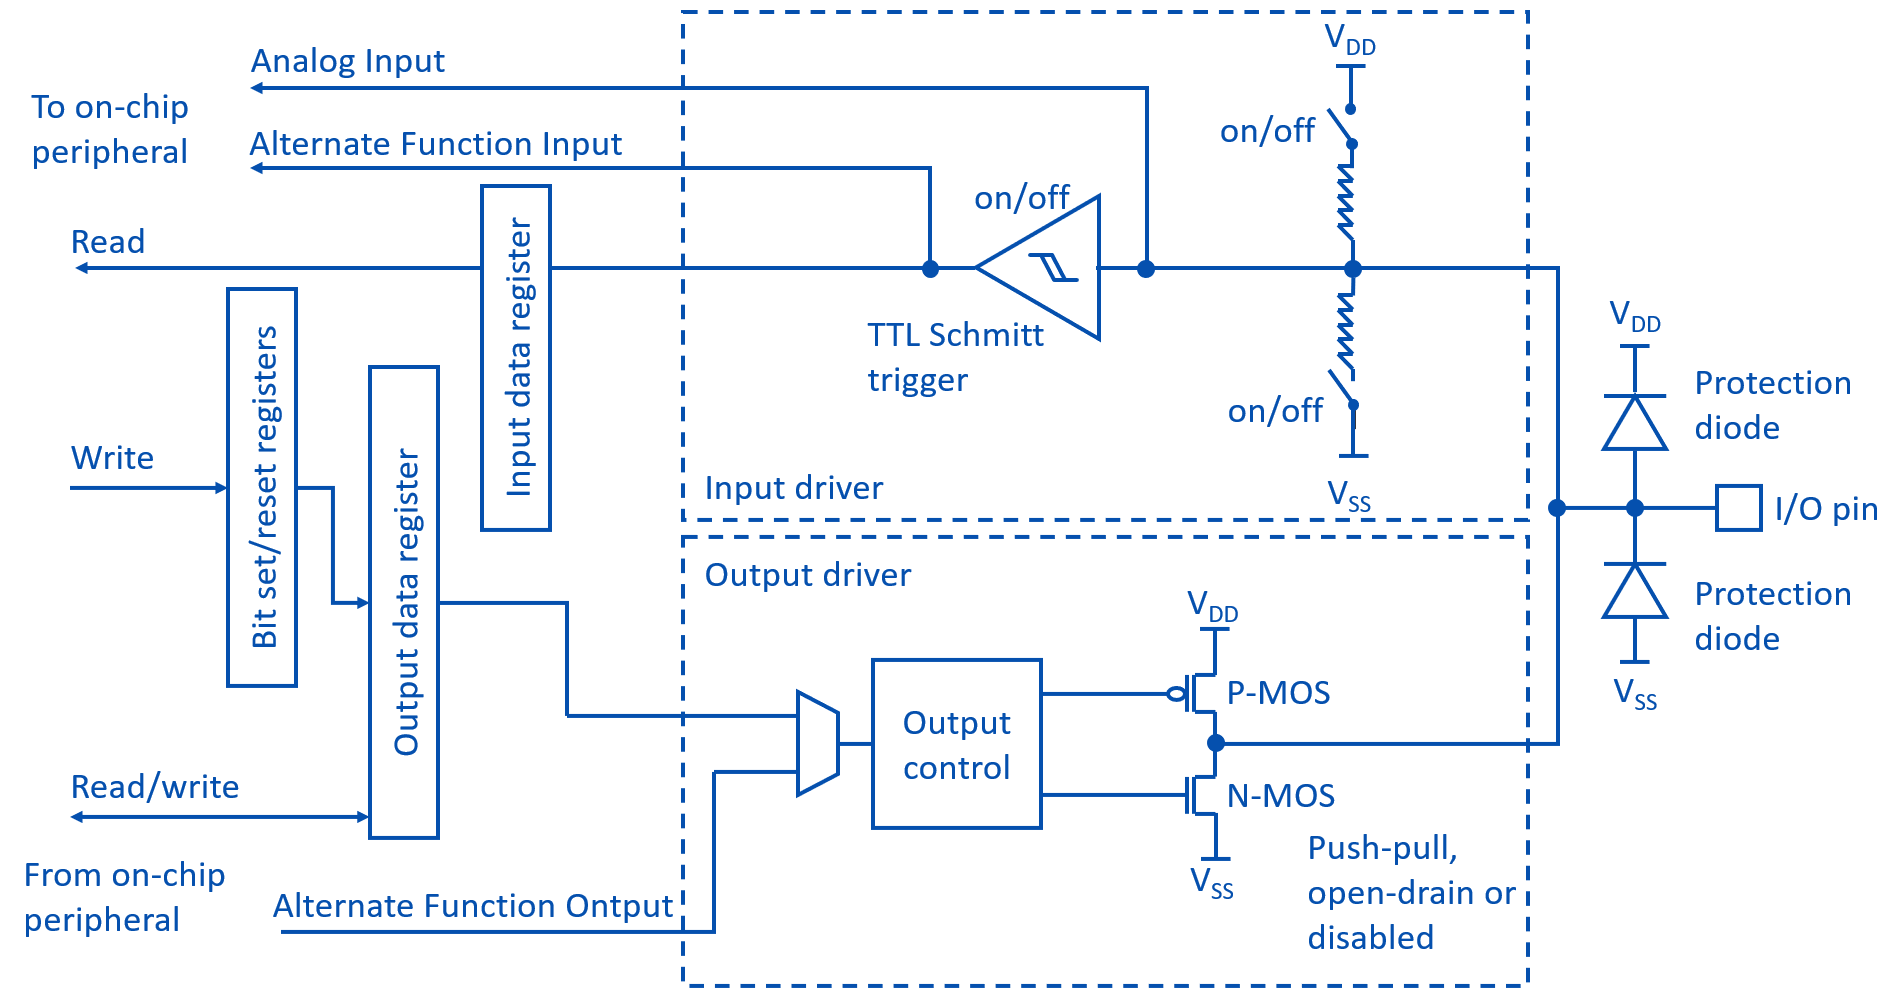
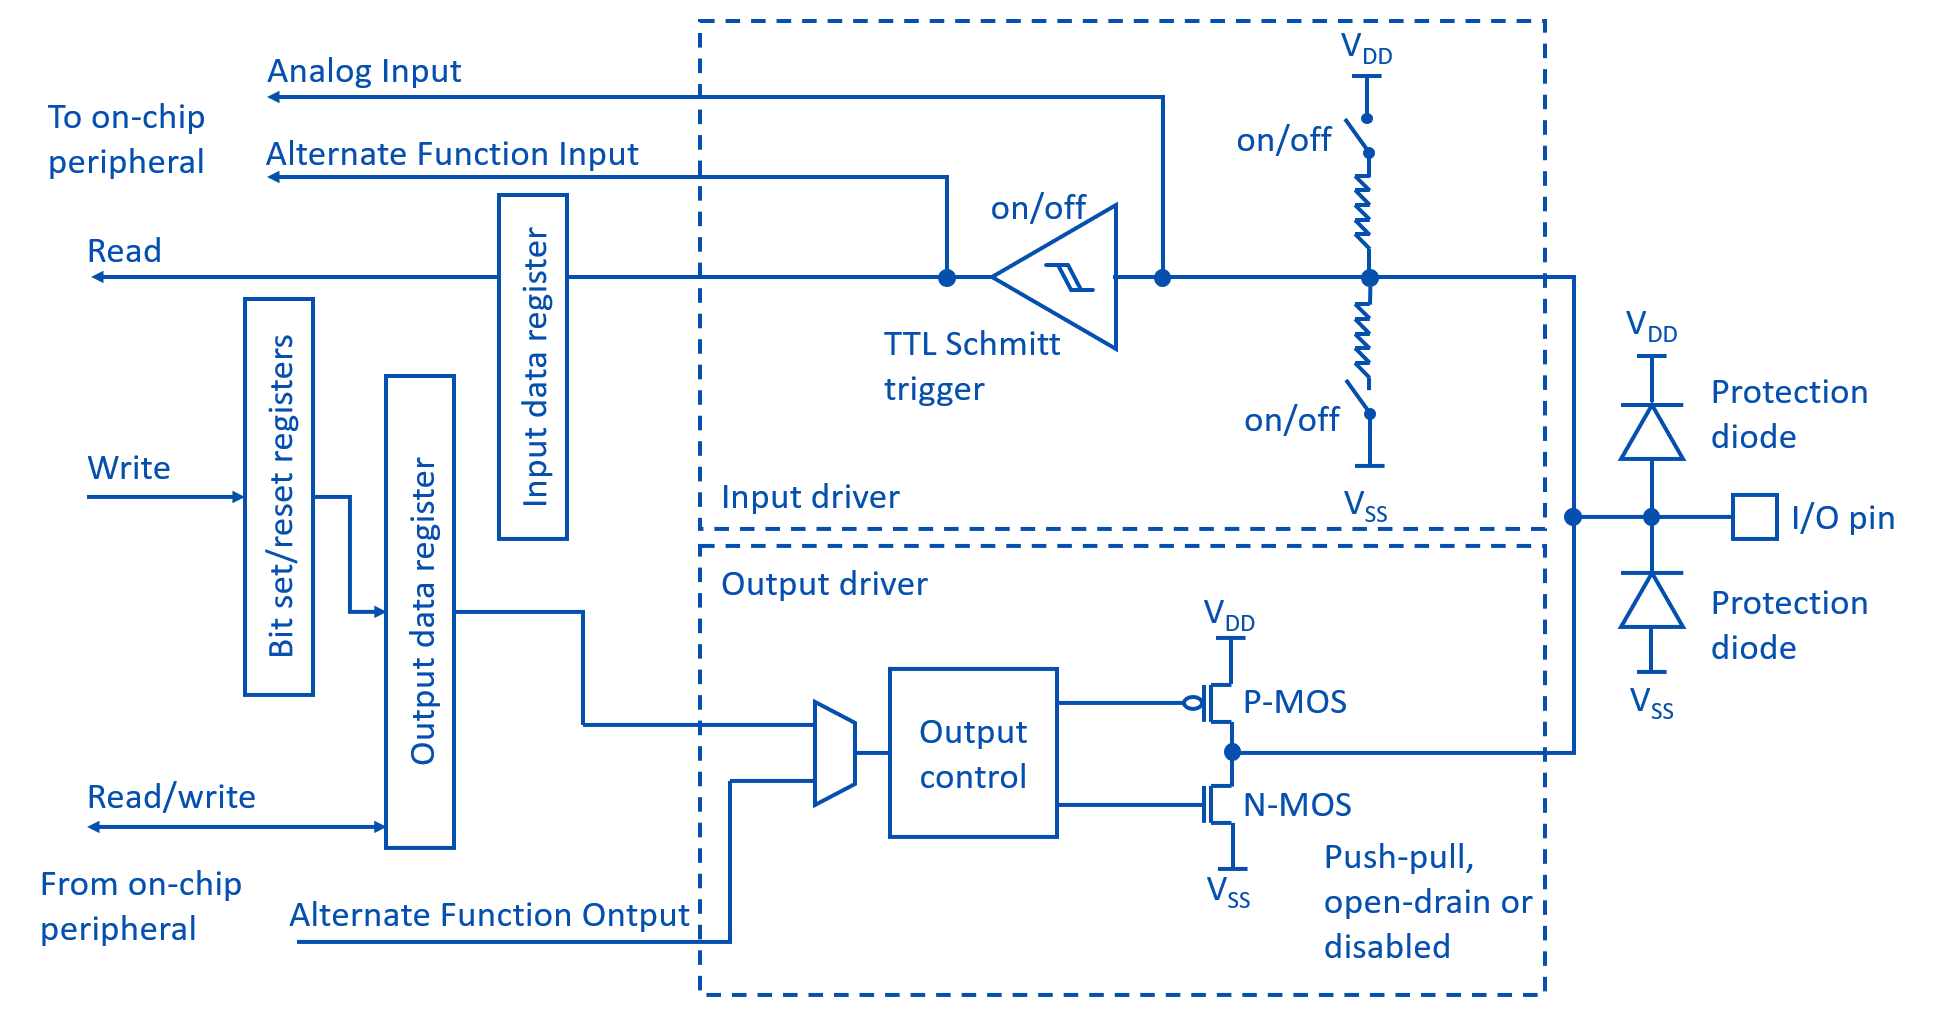
chore: 更新封面图片

Changed region(s): [[0.0, 0.0, 0.9921, 1.0], [0.341, 0.334, 0.372, 0.4251], [0.031, 0.2126, 0.093, 0.2733]]

diff --git a/_posts/2025-10-10-STM32GPIO：从BSRR寄存器到实际引脚状态.md b/_posts/2025-10-10-STM32GPIO：从BSRR寄存器到实际引脚状态.md
@@ -4,7 +4,7 @@ data: 2025-10-10 21:10:00 +0800
 category: 软件
 tag: [嵌入式, STM32, GPIO]
 description: STM32 GPIO ：从 BSRR 寄存器到实际引脚状态。
-image: ../assets/img-md/STM32GPIO：从BSRR寄存器到实际引脚状态/1-dark.png
+image: ../assets/img-md/STM32GPIO：从BSRR寄存器到实际引脚状态/1-color.png
 ---
 
 在 STM32 开发中，GPIO（General Purpose Input/Output，通用输入/输出口）引脚操作是最基础也最核心的功能之一。无论是驱动LED、读取传感器还是控制外设，都离不开对 GPIO 引脚的电平控制。本文将以一个具体的示例为切入点，深入解析 HAL 库函数操作背后的寄存器逻辑，以及引脚状态的实际变化规律。

diff --git a/_posts/2025-10-15-STM32外部中断.md b/_posts/2025-10-15-STM32外部中断.md
@@ -4,7 +4,7 @@ data: 2025-10-15 21:10:00 +0800
 category: 软件
 tag: [嵌入式, STM32, 中断]
 description: STM32 外部中断。
-image: ../assets/img-md/STM32外部中断/1-dark.png
+image: ../assets/img-md/STM32外部中断/1-color.png
 ---
 
 ## 1. 中断流程
